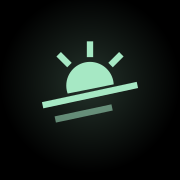
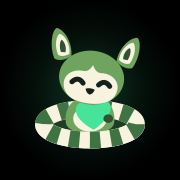
Ikona aplikacji: lemur z lewego górnego rogu zamiast słońca
- tools/soleil/icon.svg budowany z symbolu #lemur z index.html: czarne tło,
  miękka poświata w domyślnym akcencie (Mięta), lemur w bezpiecznej strefie ikon
  maskable (koło 40%), więc ani koło na Androidzie, ani zaokrąglenia iOS go nie tną.
- Wyrenderowane icon-192.png, icon-512.png, apple-touch-icon.png; w manifest.json
  i index.html ?v=2, żeby przeglądarki pobrały nowe; do tego favicon karty.
- Powiadomienia i obrazek do udostępniania też z lemurem zamiast starego logo.

Changed region(s): [[0.1944, 0.1389, 0.8056, 0.8333]]

diff --git a/soleil-main/index.html b/soleil-main/index.html
@@ -11,8 +11,9 @@
 <meta name="apple-mobile-web-app-title" content="Doco">
 <meta name="mobile-web-app-capable" content="yes">
 <meta name="theme-color" content="#000000">
-<link rel="manifest" href="manifest.json">
-<link rel="apple-touch-icon" href="apple-touch-icon.png">
+<link rel="manifest" href="manifest.json?v=2">
+<link rel="apple-touch-icon" href="apple-touch-icon.png?v=2">
+<link rel="icon" type="image/png" sizes="192x192" href="icon-192.png?v=2">
 <!-- HackYeah: the site runs only on GitHub Pages, which has no server (api/*). There, fetch('api/...')
      fails at once without a network request, so every feature takes its local path: the chat answers
      from offline-companion.js (see sendMessage), the daily card from its built-in list. -->
@@ -1811,7 +1812,7 @@ async function shareWeekSummary() {
       img.crossOrigin = 'anonymous';
       img.onload = () => resolve(img);
       img.onerror = reject;
-      img.src = 'logosoleil.png';
+      img.src = 'icon-512.png?v=2';
     });
     ctx.drawImage(logo, W / 2 - 70, 100, 140, 140);
   } catch (e) { /* logo opcjonalne */ }

diff --git a/soleil-main/sw.js b/soleil-main/sw.js
@@ -9,7 +9,7 @@ self.addEventListener('push', (event) => {
   event.waitUntil(
     self.registration.showNotification(data.title, {
       body: data.body,
-      icon: 'logosoleil.png',
+      icon: 'icon-192.png?v=2',
       data: { url: data.url || './' }
     })
   );
